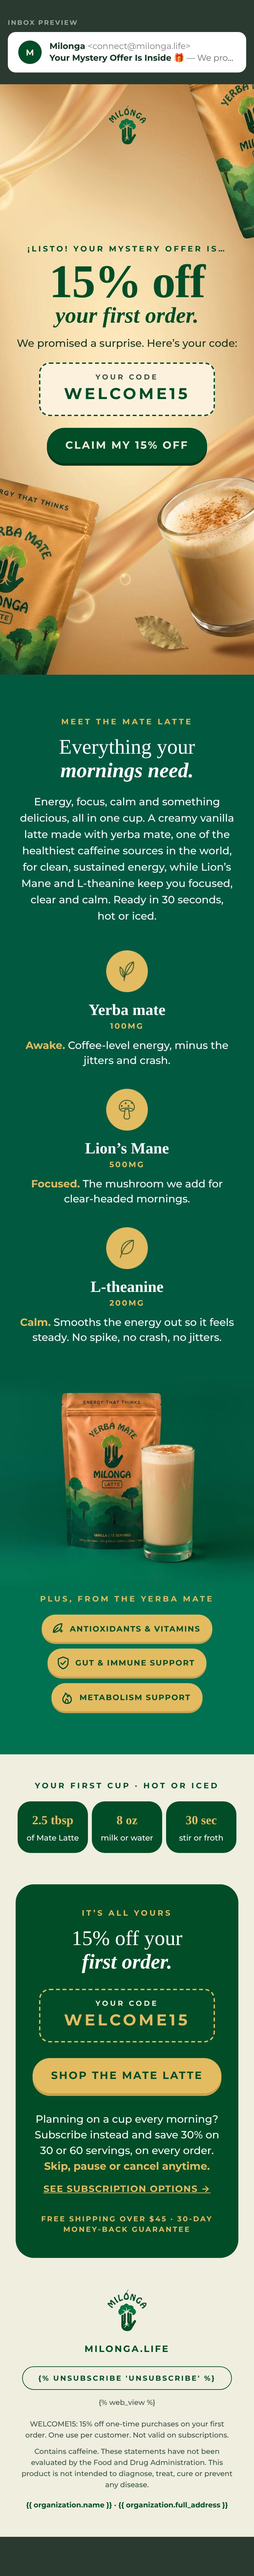
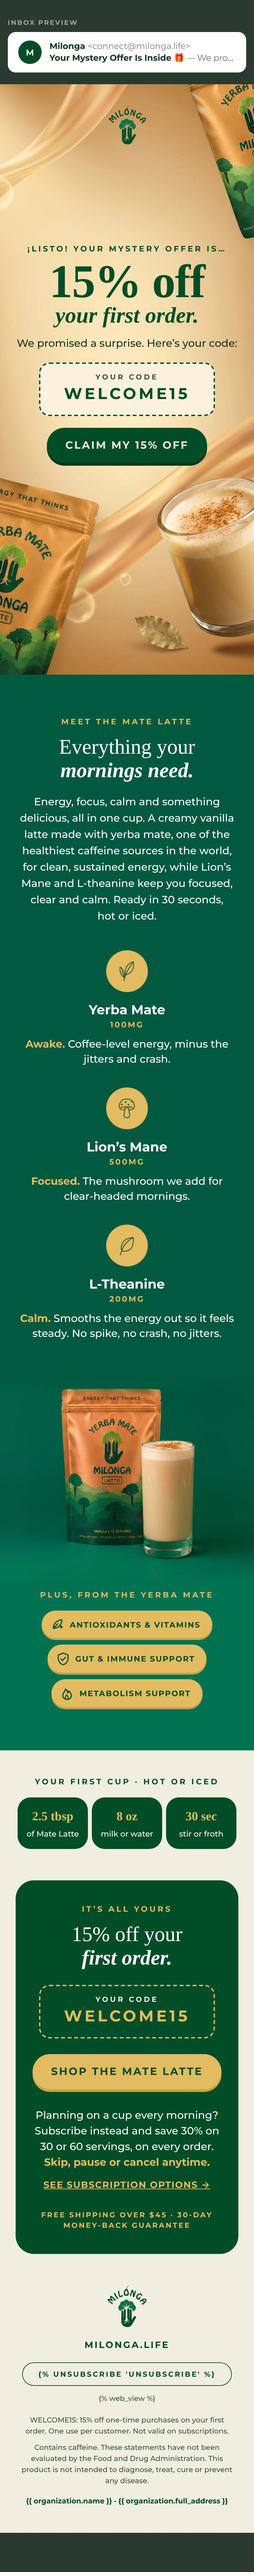
Welcome flow E1: ingredient names in Montserrat Bold
Claude-Session: https://claude.ai/code/session_01NhEtXPnfeCJfN73SqBkUZ5

diff --git a/email-ds/exports/klaviyo/welcome-e1/welcome-e1.html b/email-ds/exports/klaviyo/welcome-e1/welcome-e1.html
@@ -71,19 +71,19 @@
 <table role="presentation" width="100%" cellpadding="0" cellspacing="0" border="0"><tr>
 <td class="col" width="33%" valign="top" align="center" style="width:33%;padding:0 8px;font-family:'Montserrat','Helvetica Neue',Helvetica,Arial,sans-serif;">
 <img src="https://cdn.klaviyomail.com/company/TwvSnK/images/3f6c2de8-85cb-4fe0-9a93-38b08cff2575.png" width="64" height="64" alt="Yerba mate" style="display:block;margin:0 auto;width:64px;height:64px;border:0;">
-<div style="padding-top:14px;font-family:'Times New Roman',Times,Georgia,serif;font-size:24px;line-height:28px;font-weight:700;color:#FFFFFF;">Yerba mate</div>
+<div style="padding-top:14px;font-family:'Montserrat','Helvetica Neue',Helvetica,Arial,sans-serif;font-size:20px;line-height:26px;font-weight:700;color:#FFFFFF;">Yerba Mate</div>
 <div style="padding-top:2px;font-size:12px;line-height:16px;font-weight:700;letter-spacing:2px;text-transform:uppercase;color:#E3BC62;">100mg</div>
-<div style="padding-top:10px;font-size:16px;line-height:23px;font-weight:500;color:#FFFFFF;"><strong style="font-weight:700;color:#E3BC62;">Awake.</strong> Coffee-level energy, minus the jitters and&nbsp;crash.</div>
+<div style="padding-top:10px;font-size:16px;line-height:23px;font-weight:500;color:#FFFFFF;"><strong style="font-weight:700;color:#E3BC62;">Awake.</strong> <span style="white-space:nowrap;">Coffee-level</span> energy, minus the jitters and&nbsp;crash.</div>
 </td>
 <td class="col" width="33%" valign="top" align="center" style="width:33%;padding:0 8px;font-family:'Montserrat','Helvetica Neue',Helvetica,Arial,sans-serif;">
 <img src="https://cdn.klaviyomail.com/company/TwvSnK/images/58b029ea-6b1e-4537-95d9-10aa3155bbde.png" width="64" height="64" alt="Lion&rsquo;s Mane" style="display:block;margin:0 auto;width:64px;height:64px;border:0;">
-<div style="padding-top:14px;font-family:'Times New Roman',Times,Georgia,serif;font-size:24px;line-height:28px;font-weight:700;color:#FFFFFF;">Lion&rsquo;s Mane</div>
+<div style="padding-top:14px;font-family:'Montserrat','Helvetica Neue',Helvetica,Arial,sans-serif;font-size:20px;line-height:26px;font-weight:700;color:#FFFFFF;">Lion&rsquo;s Mane</div>
 <div style="padding-top:2px;font-size:12px;line-height:16px;font-weight:700;letter-spacing:2px;text-transform:uppercase;color:#E3BC62;">500mg</div>
 <div style="padding-top:10px;font-size:16px;line-height:23px;font-weight:500;color:#FFFFFF;"><strong style="font-weight:700;color:#E3BC62;">Focused.</strong> The mushroom we add for <span style="white-space:nowrap;">clear-headed</span>&nbsp;mornings.</div>
 </td>
 <td class="col" width="33%" valign="top" align="center" style="width:33%;padding:0 8px;font-family:'Montserrat','Helvetica Neue',Helvetica,Arial,sans-serif;">
 <img src="https://cdn.klaviyomail.com/company/TwvSnK/images/6f3cd229-74f8-4c52-b6fb-93d10911e05f.png" width="64" height="64" alt="L-theanine" style="display:block;margin:0 auto;width:64px;height:64px;border:0;">
-<div style="padding-top:14px;font-family:'Times New Roman',Times,Georgia,serif;font-size:24px;line-height:28px;font-weight:700;color:#FFFFFF;">L-theanine</div>
+<div style="padding-top:14px;font-family:'Montserrat','Helvetica Neue',Helvetica,Arial,sans-serif;font-size:20px;line-height:26px;font-weight:700;color:#FFFFFF;">L-Theanine</div>
 <div style="padding-top:2px;font-size:12px;line-height:16px;font-weight:700;letter-spacing:2px;text-transform:uppercase;color:#E3BC62;">200mg</div>
 <div style="padding-top:10px;font-size:16px;line-height:23px;font-weight:500;color:#FFFFFF;"><strong style="font-weight:700;color:#E3BC62;">Calm.</strong> Smooths the energy out so it feels steady. No spike, no crash, no&nbsp;jitters.</div>
 </td>

diff --git a/email-ds/refine/welcome-e1.html b/email-ds/refine/welcome-e1.html
@@ -86,19 +86,19 @@ body{margin:0;background:#2B3A31;padding:28px 0 60px}
 <table role="presentation" width="100%" cellpadding="0" cellspacing="0" border="0"><tr>
 <td class="col" width="33%" valign="top" align="center" style="width:33%;padding:0 8px;font-family:'Montserrat','Helvetica Neue',Helvetica,Arial,sans-serif;">
 <img src="../exports/klaviyo/welcome-e1/img/disc-gold-yerba-mate.png" width="64" height="64" alt="Yerba mate" style="display:block;margin:0 auto;width:64px;height:64px;border:0;">
-<div style="padding-top:14px;font-family:'Times New Roman',Times,Georgia,serif;font-size:24px;line-height:28px;font-weight:700;color:#FFFFFF;">Yerba mate</div>
+<div style="padding-top:14px;font-family:'Montserrat','Helvetica Neue',Helvetica,Arial,sans-serif;font-size:20px;line-height:26px;font-weight:700;color:#FFFFFF;">Yerba Mate</div>
 <div style="padding-top:2px;font-size:12px;line-height:16px;font-weight:700;letter-spacing:2px;text-transform:uppercase;color:#E3BC62;">100mg</div>
-<div style="padding-top:10px;font-size:16px;line-height:23px;font-weight:500;color:#FFFFFF;"><strong style="font-weight:700;color:#E3BC62;">Awake.</strong> Coffee-level energy, minus the jitters and&nbsp;crash.</div>
+<div style="padding-top:10px;font-size:16px;line-height:23px;font-weight:500;color:#FFFFFF;"><strong style="font-weight:700;color:#E3BC62;">Awake.</strong> <span style="white-space:nowrap;">Coffee-level</span> energy, minus the jitters and&nbsp;crash.</div>
 </td>
 <td class="col" width="33%" valign="top" align="center" style="width:33%;padding:0 8px;font-family:'Montserrat','Helvetica Neue',Helvetica,Arial,sans-serif;">
 <img src="../exports/klaviyo/welcome-e1/img/disc-gold-lions-mane.png" width="64" height="64" alt="Lion&rsquo;s Mane" style="display:block;margin:0 auto;width:64px;height:64px;border:0;">
-<div style="padding-top:14px;font-family:'Times New Roman',Times,Georgia,serif;font-size:24px;line-height:28px;font-weight:700;color:#FFFFFF;">Lion&rsquo;s Mane</div>
+<div style="padding-top:14px;font-family:'Montserrat','Helvetica Neue',Helvetica,Arial,sans-serif;font-size:20px;line-height:26px;font-weight:700;color:#FFFFFF;">Lion&rsquo;s Mane</div>
 <div style="padding-top:2px;font-size:12px;line-height:16px;font-weight:700;letter-spacing:2px;text-transform:uppercase;color:#E3BC62;">500mg</div>
 <div style="padding-top:10px;font-size:16px;line-height:23px;font-weight:500;color:#FFFFFF;"><strong style="font-weight:700;color:#E3BC62;">Focused.</strong> The mushroom we add for <span style="white-space:nowrap;">clear-headed</span>&nbsp;mornings.</div>
 </td>
 <td class="col" width="33%" valign="top" align="center" style="width:33%;padding:0 8px;font-family:'Montserrat','Helvetica Neue',Helvetica,Arial,sans-serif;">
 <img src="../exports/klaviyo/welcome-e1/img/disc-gold-l-theanine.png" width="64" height="64" alt="L-theanine" style="display:block;margin:0 auto;width:64px;height:64px;border:0;">
-<div style="padding-top:14px;font-family:'Times New Roman',Times,Georgia,serif;font-size:24px;line-height:28px;font-weight:700;color:#FFFFFF;">L-theanine</div>
+<div style="padding-top:14px;font-family:'Montserrat','Helvetica Neue',Helvetica,Arial,sans-serif;font-size:20px;line-height:26px;font-weight:700;color:#FFFFFF;">L-Theanine</div>
 <div style="padding-top:2px;font-size:12px;line-height:16px;font-weight:700;letter-spacing:2px;text-transform:uppercase;color:#E3BC62;">200mg</div>
 <div style="padding-top:10px;font-size:16px;line-height:23px;font-weight:500;color:#FFFFFF;"><strong style="font-weight:700;color:#E3BC62;">Calm.</strong> Smooths the energy out so it feels steady. No spike, no crash, no&nbsp;jitters.</div>
 </td>
